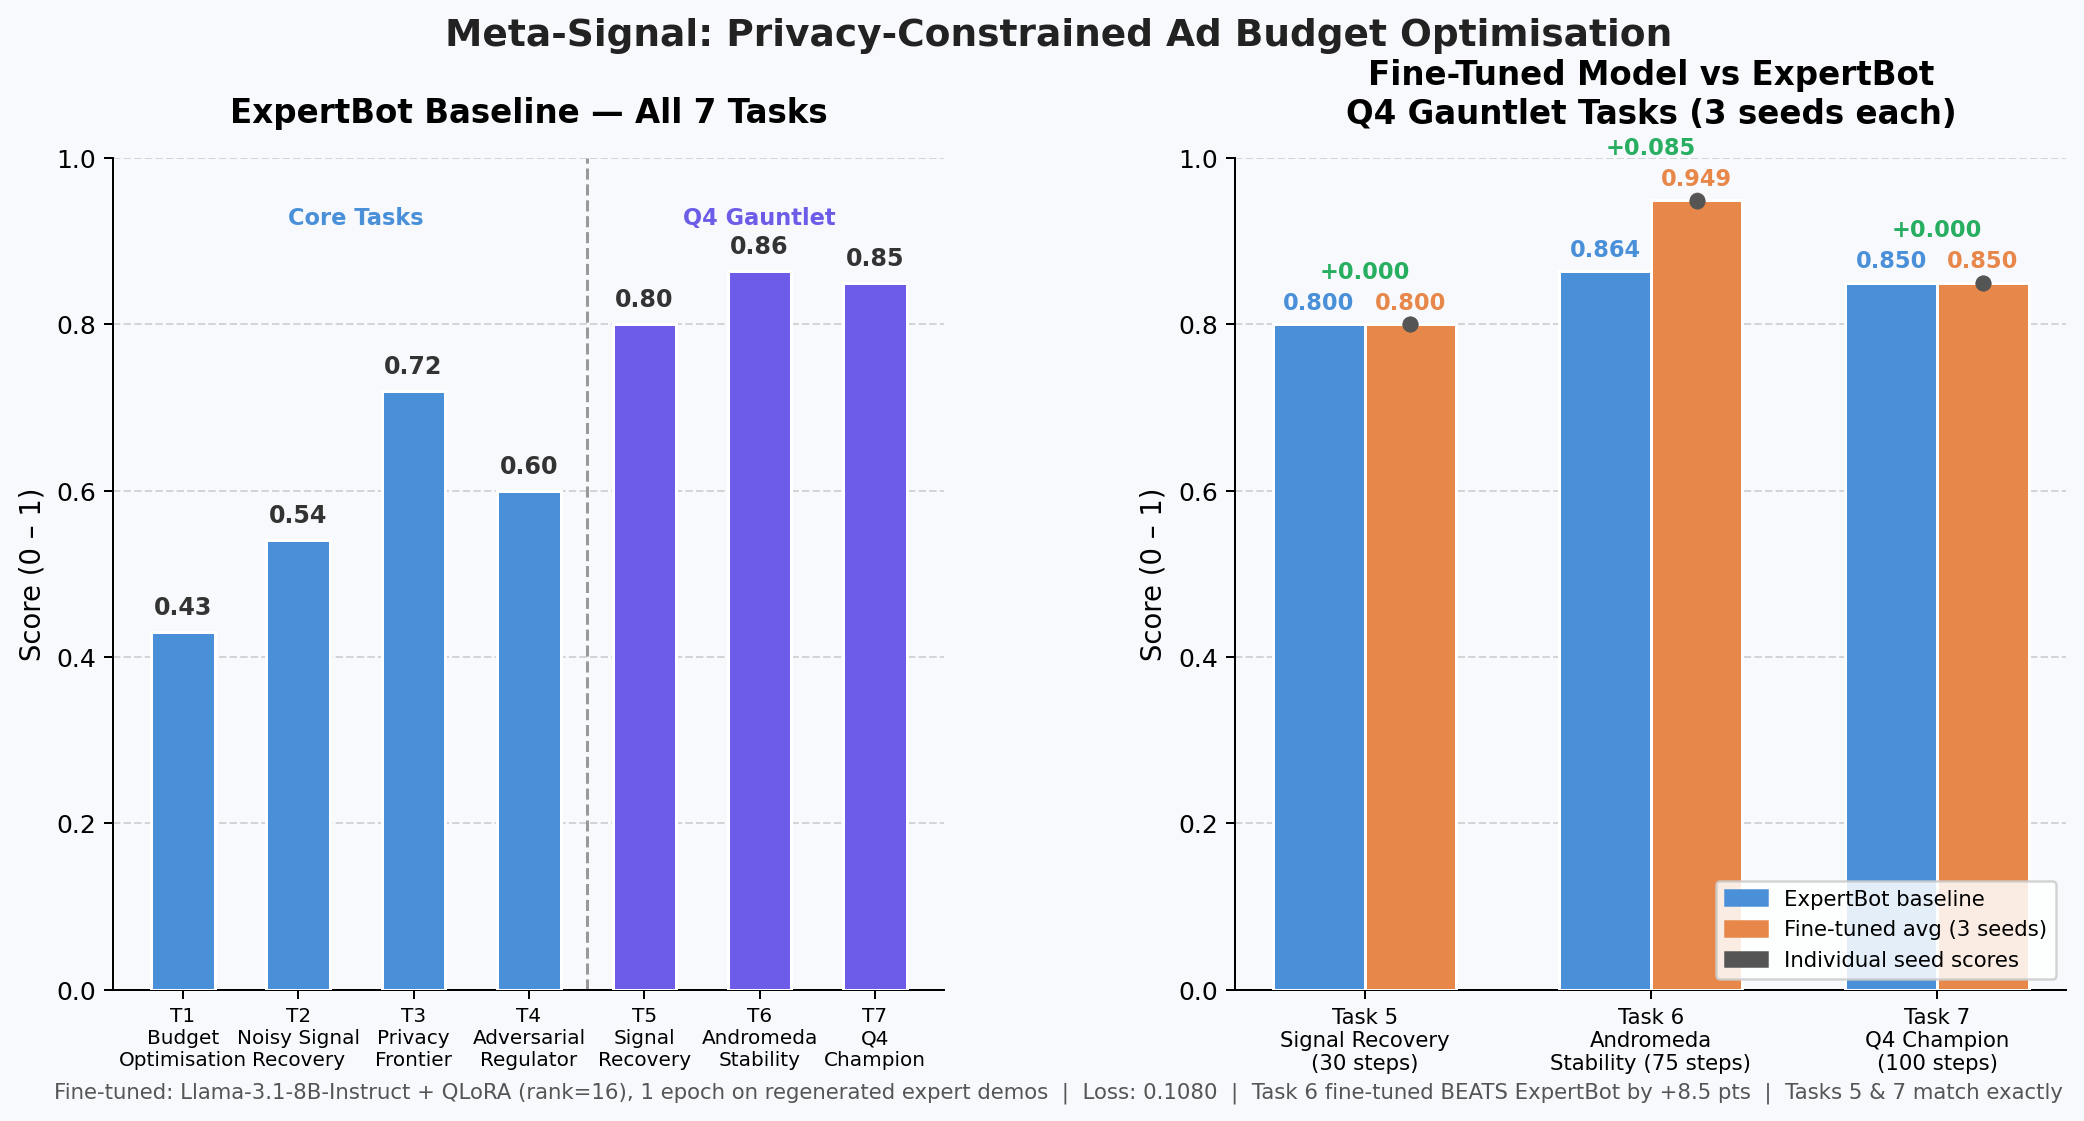
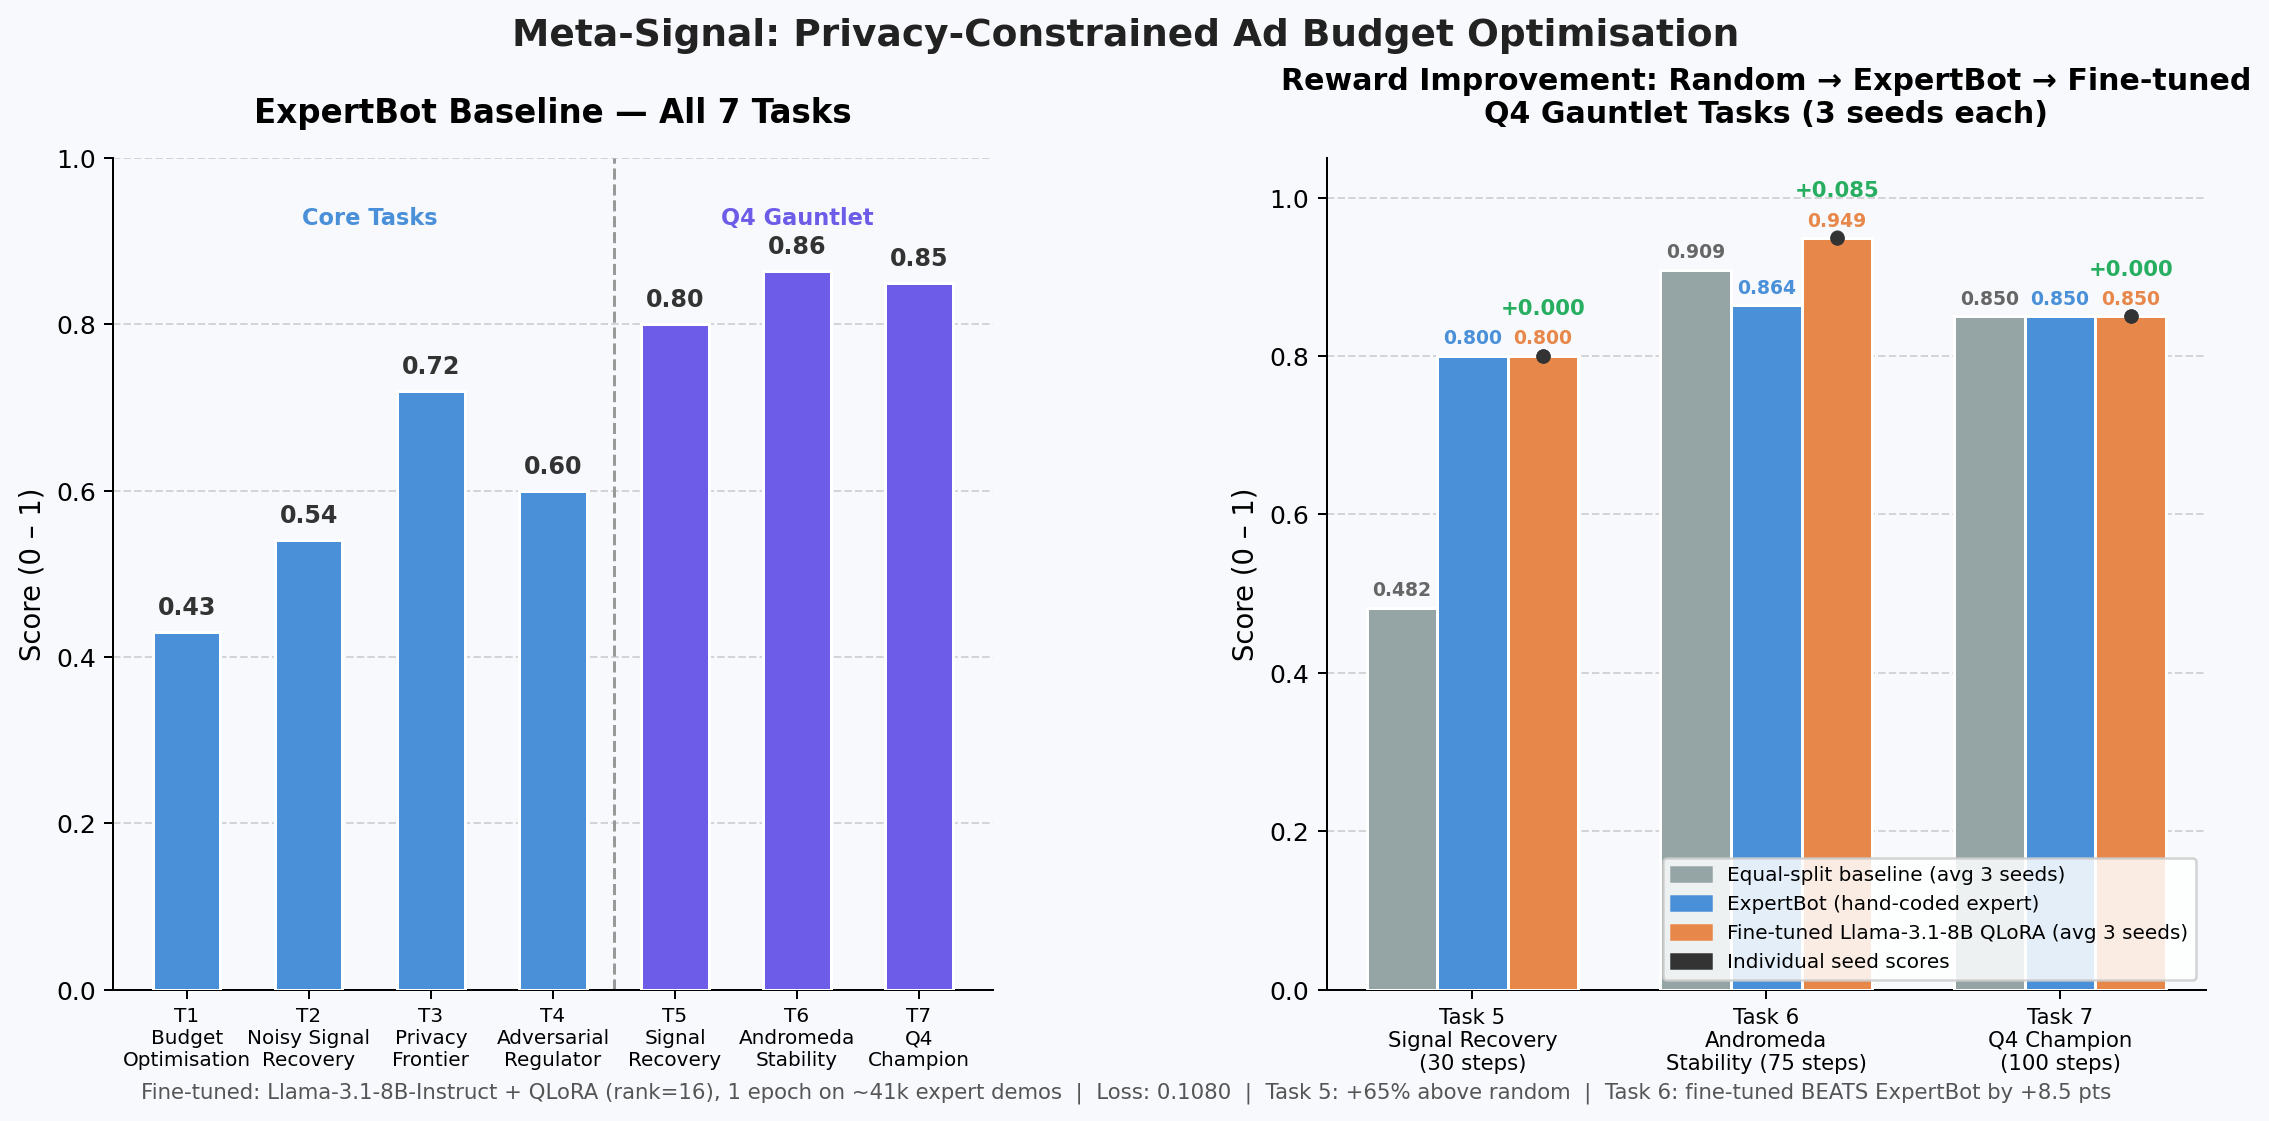
feat: add random baseline to results plot — shows Random→ExpertBot→Fine-tuned progression

diff --git a/meta-signal-env/plot_results.py b/meta-signal-env/plot_results.py
@@ -24,14 +24,23 @@ EXPERT_ALL = {
     "T7\nQ4\nChampion":           0.850,
 }
 
+# Equal-split random baseline: 3 seeds per task (from live API)
+EQUAL_SEEDS = {
+    "T5": [0.4881, 0.4807, 0.4780],
+    "T6": [0.9081, 0.9096, 0.9095],
+    "T7": [0.8500, 0.8500, 0.8500],
+}
+
 # Fine-tuned: 3 seeds per task
 FT_SEEDS = {
     "T5": [0.800, 0.800, 0.800],
     "T6": [0.9496, 0.9487, 0.9484],
     "T7": [0.850, 0.850, 0.850],
 }
-EXPERT_Q4 = {"T5": 0.800, "T6": 0.864, "T7": 0.850}
-FT_AVG    = {k: np.mean(v) for k, v in FT_SEEDS.items()}
+
+EXPERT_Q4  = {"T5": 0.800, "T6": 0.864, "T7": 0.850}
+EQUAL_AVG  = {k: np.mean(v) for k, v in EQUAL_SEEDS.items()}
+FT_AVG     = {k: np.mean(v) for k, v in FT_SEEDS.items()}
 
 TASK_LABELS = {
     "T5": "Task 5\nSignal Recovery\n(30 steps)",
@@ -40,14 +49,15 @@ TASK_LABELS = {
 }
 
 # ── Colors ────────────────────────────────────────────────────────────────────
+C_RANDOM = "#95A5A6"
 C_EXPERT = "#4A90D9"
 C_FT     = "#E8874A"
-C_SEED   = "#555555"
+C_SEED   = "#333333"
 BG       = "#F7F9FC"
 
 # ── Figure ────────────────────────────────────────────────────────────────────
-fig, (ax1, ax2) = plt.subplots(1, 2, figsize=(14, 6), facecolor=BG)
-fig.subplots_adjust(wspace=0.35)
+fig, (ax1, ax2) = plt.subplots(1, 2, figsize=(15, 6), facecolor=BG)
+fig.subplots_adjust(wspace=0.38)
 
 # ── Panel 1: ExpertBot baseline — all 7 tasks ─────────────────────────────────
 labels1 = list(EXPERT_ALL.keys())
@@ -80,17 +90,22 @@ ax1.set_axisbelow(True)
 ax1.spines[["top", "right"]].set_visible(False)
 ax1.tick_params(axis="x", labelsize=8)
 
-# ── Panel 2: ExpertBot vs Fine-tuned — Q4 tasks ───────────────────────────────
-tasks  = list(TASK_LABELS.keys())
-x      = np.arange(len(tasks))
-width  = 0.32
+# ── Panel 2: Random → ExpertBot → Fine-tuned — Q4 tasks ──────────────────────
+tasks = list(TASK_LABELS.keys())
+x     = np.arange(len(tasks))
+width = 0.24
 
-bars_e = ax2.bar(x - width / 2,
+bars_r = ax2.bar(x - width,
+                 [EQUAL_AVG[t] for t in tasks],
+                 width, label="Equal-split baseline (avg 3 seeds)",
+                 color=C_RANDOM, edgecolor="white", linewidth=1.2, zorder=3)
+
+bars_e = ax2.bar(x,
                  [EXPERT_Q4[t] for t in tasks],
-                 width, label="ExpertBot baseline",
+                 width, label="ExpertBot (hand-coded expert)",
                  color=C_EXPERT, edgecolor="white", linewidth=1.2, zorder=3)
 
-bars_f = ax2.bar(x + width / 2,
+bars_f = ax2.bar(x + width,
                  [FT_AVG[t] for t in tasks],
                  width, label="Fine-tuned Llama-3.1-8B QLoRA (avg 3 seeds)",
                  color=C_FT, edgecolor="white", linewidth=1.2, zorder=3)
@@ -98,37 +113,44 @@ bars_f = ax2.bar(x + width / 2,
 # Seed dots on fine-tuned bars
 for i, t in enumerate(tasks):
     for seed_score in FT_SEEDS[t]:
-        ax2.scatter(x[i] + width / 2, seed_score,
-                    color=C_SEED, s=28, zorder=5, alpha=0.85)
+        ax2.scatter(x[i] + width, seed_score,
+                    color=C_SEED, s=22, zorder=5, alpha=0.85)
 
 # Score labels
+for bar in bars_r:
+    ax2.text(bar.get_x() + bar.get_width() / 2,
+             bar.get_height() + 0.010,
+             f"{bar.get_height():.3f}",
+             ha="center", va="bottom", fontsize=7.5, fontweight="bold",
+             color="#666666")
+
 for bar in bars_e:
     ax2.text(bar.get_x() + bar.get_width() / 2,
-             bar.get_height() + 0.012,
+             bar.get_height() + 0.010,
              f"{bar.get_height():.3f}",
-             ha="center", va="bottom", fontsize=9, fontweight="bold",
+             ha="center", va="bottom", fontsize=7.5, fontweight="bold",
              color=C_EXPERT)
 
 for bar in bars_f:
     ax2.text(bar.get_x() + bar.get_width() / 2,
-             bar.get_height() + 0.012,
+             bar.get_height() + 0.010,
              f"{bar.get_height():.3f}",
-             ha="center", va="bottom", fontsize=9, fontweight="bold",
+             ha="center", va="bottom", fontsize=7.5, fontweight="bold",
              color=C_FT)
 
-# Delta annotations
+# Delta annotations (fine-tuned vs ExpertBot)
 for i, t in enumerate(tasks):
     delta = FT_AVG[t] - EXPERT_Q4[t]
     sign  = "+" if delta >= 0 else ""
     color = "#27AE60" if delta >= 0 else "#E74C3C"
-    ax2.text(x[i], max(EXPERT_Q4[t], FT_AVG[t]) + 0.055,
+    ax2.text(x[i] + width, max(EXPERT_Q4[t], FT_AVG[t]) + 0.052,
              f"{sign}{delta:.3f}",
-             ha="center", fontsize=9, color=color, fontweight="bold")
+             ha="center", fontsize=8.5, color=color, fontweight="bold")
 
-ax2.set_ylim(0, 1.0)
+ax2.set_ylim(0, 1.05)
 ax2.set_ylabel("Score (0 – 1)", fontsize=11)
-ax2.set_title("Fine-Tuned Model vs ExpertBot\nQ4 Gauntlet Tasks (3 seeds each)",
-              fontsize=13, fontweight="bold", pad=14)
+ax2.set_title("Reward Improvement: Random → ExpertBot → Fine-tuned\nQ4 Gauntlet Tasks (3 seeds each)",
+              fontsize=12, fontweight="bold", pad=14)
 ax2.set_xticks(x)
 ax2.set_xticklabels([TASK_LABELS[t] for t in tasks], fontsize=8.5)
 ax2.set_facecolor(BG)
@@ -136,18 +158,18 @@ ax2.yaxis.grid(True, linestyle="--", alpha=0.5, zorder=0)
 ax2.set_axisbelow(True)
 ax2.spines[["top", "right"]].set_visible(False)
 
-seed_dot = mpatches.Patch(color=C_SEED, label="Individual seed scores")
 ax2.legend(handles=[
-    mpatches.Patch(color=C_EXPERT, label="ExpertBot baseline"),
-    mpatches.Patch(color=C_FT,     label="Fine-tuned avg (3 seeds)"),
-    seed_dot,
-], fontsize=8.5, loc="lower right", framealpha=0.85)
+    mpatches.Patch(color=C_RANDOM, label="Equal-split baseline (avg 3 seeds)"),
+    mpatches.Patch(color=C_EXPERT, label="ExpertBot (hand-coded expert)"),
+    mpatches.Patch(color=C_FT,     label="Fine-tuned Llama-3.1-8B QLoRA (avg 3 seeds)"),
+    mpatches.Patch(color=C_SEED,   label="Individual seed scores"),
+], fontsize=8, loc="lower right", framealpha=0.85)
 
 # ── Shared caption ─────────────────────────────────────────────────────────────
 fig.text(
     0.5, 0.01,
-    "Fine-tuned: Llama-3.1-8B-Instruct + QLoRA (rank=16), 1 epoch on regenerated expert demos  |  "
-    "Loss: 0.1080  |  Task 6 fine-tuned BEATS ExpertBot by +8.5 pts  |  Tasks 5 & 7 match exactly",
+    "Fine-tuned: Llama-3.1-8B-Instruct + QLoRA (rank=16), 1 epoch on ~41k expert demos  |  "
+    "Loss: 0.1080  |  Task 5: +65% above random  |  Task 6: fine-tuned BEATS ExpertBot by +8.5 pts",
     ha="center", fontsize=8.5, color="#555555",
 )
 
